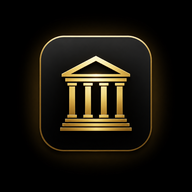
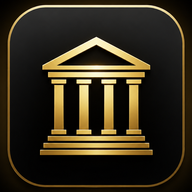
v75: ícono recortado al badge dorado (llena el marco, el dorado llega al filo, sin margen negro); barra aún más translúcida (blur 12px, tinte .12) y se contrae también a lo ancho al bajar; imagen del cuerpo con bordes difuminados a transparente para que se funda con el fondo sin cortes de foto pegad

diff --git a/styles.css b/styles.css
@@ -927,19 +927,18 @@ html, body {
   bottom: calc(10px + env(safe-area-inset-bottom, 0px));
   border-radius: 28px;
   border: 1px solid rgba(255, 255, 255, .12);
-  /* Cristal translúcido de verdad: tinte muy bajo + blur medio para que se
-     vea CLARAMENTE lo que hay detrás (como la barra de Instagram sobre foto).
-     El blur alto lechoso hacía que leyera opaco; con 20px pasa el color. */
-  background: rgba(16, 17, 21, .16);
-  -webkit-backdrop-filter: blur(20px) saturate(150%);
-  backdrop-filter: blur(20px) saturate(150%);
+  /* Cristal translúcido: tinte muy bajo + blur ligero para que se vea claro
+     lo que hay detrás (como la barra de Instagram). Blur bajo = menos lechoso. */
+  background: rgba(16, 17, 21, .12);
+  -webkit-backdrop-filter: blur(12px) saturate(140%);
+  backdrop-filter: blur(12px) saturate(140%);
   /* Brillo interior en el borde superior: el "filo" del cristal */
   box-shadow: inset 0 1px 0 rgba(255, 255, 255, .1), var(--shadow-m);
   display: flex; align-items: center;
   padding: 7px 6px;
   z-index: 50;
-  /* Movimiento al hacer scroll: se contrae al bajar, se expande al subir */
-  transition: padding .28s cubic-bezier(.4,0,.2,1), transform .28s cubic-bezier(.4,0,.2,1);
+  /* Movimiento al scroll: se contrae (más angosta y baja) al bajar, se expande al subir */
+  transition: padding .28s cubic-bezier(.4,0,.2,1), left .28s cubic-bezier(.4,0,.2,1), right .28s cubic-bezier(.4,0,.2,1);
 }
 .phone.light .bottom-nav {
   background: rgba(255, 255, 255, .28);
@@ -947,7 +946,7 @@ html, body {
   box-shadow: inset 0 1px 0 rgba(255, 255, 255, .6), var(--shadow-m);
 }
 /* Estado contraído: sin etiquetas, más compacta (estilo Instagram al scrollear) */
-.bottom-nav.nav-shrunk { padding-top: 3px; padding-bottom: 3px; }
+.bottom-nav.nav-shrunk { padding-top: 3px; padding-bottom: 3px; left: 42px; right: 42px; }
 .nav-label { max-height: 16px; overflow: hidden; transition: max-height .25s ease, opacity .2s ease; }
 .bottom-nav.nav-shrunk .nav-label { max-height: 0; opacity: 0; }
 .bottom-nav.nav-shrunk .nav-icon { padding-top: 3px; padding-bottom: 3px; }

diff --git a/index.html b/index.html
@@ -7,7 +7,7 @@
   <link rel="preconnect" href="https://fonts.googleapis.com">
   <link rel="preconnect" href="https://fonts.gstatic.com" crossorigin>
   <link href="https://fonts.googleapis.com/css2?family=Inter:wght@300;400;500;600;700;800;900&display=swap" rel="stylesheet">
-  <link rel="stylesheet" href="styles.css?v=74">
+  <link rel="stylesheet" href="styles.css?v=75">
 
   <!-- Aplica tema ANTES del primer render para evitar flash de color incorrecto -->
   <script>
@@ -1466,8 +1466,8 @@
 
 </div><!-- /phone -->
 
-<script src="firebase.js?v=74"></script>
-<script src="app.js?v=74"></script>
+<script src="firebase.js?v=75"></script>
+<script src="app.js?v=75"></script>
 
 </body>
 </html>

diff --git a/sw.js b/sw.js
@@ -1,4 +1,4 @@
-const CACHE = 'nutripro-v74';
+const CACHE = 'nutripro-v75';
 const FILES = [
   './',
   './index.html',
